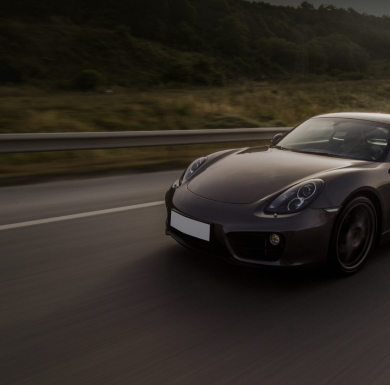
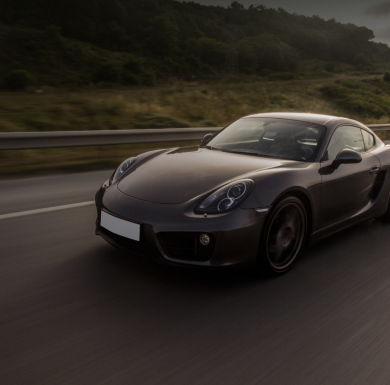
Завершён блок с advantages

diff --git a/source/index.html b/source/index.html
@@ -96,11 +96,11 @@
       <section class="promotion">
         <h2 class="promotion__title title-2">Акционные предложения</h2>
         <ul class="promotion__list">
-          <li class="promotion__item card">
+          <li class="promotion__item promotion__item--liquid">
             <h3 class="card__title">Бесплатная проверка жидкостей</h3>
             <p class="card__text">тормозная жидкость,<br> масло в двигателе,<br> масло в КПП,<br> антифриз.</p>
           </li>
-          <li class="promotion__item card">
+          <li class="promotion__item promotion__item--flex">
             <h3 class="card__title">Ремонт ДВС с гарантией один год</h3>
             <picture>
               <source type="image/webp" media="(min-width: 768px)" srcset="img/engine-desktop.webp 1x, img/engine-desktop@2x.webp 2x">
@@ -110,11 +110,11 @@
             </picture>
             <p class="card__text">без ограничения пробега</p>
           </li>
-          <li class="promotion__item card">
+          <li class="promotion__item promotion__item--free-light">
             <h3 class="card__title">Бесплатная полировка фар</h3>
             <p class="card__text">при окрасе от 3 деталей</p>
           </li>
-          <li class="promotion__item card">
+          <li class="promotion__item promotion__item--flex">
             <h3 class="card__title">Онлайн оценка кузовного ремонта</h3>
               <img class="card__img" src="./img/online.svg" width="" height="" alt="">
               <div class="card__social">

diff --git a/source/sass/blocks/promotion.scss b/source/sass/blocks/promotion.scss
@@ -1,0 +1,93 @@
+.promotion {
+  padding: 0 30px;
+}
+
+.promotion__title {
+  margin-bottom: 25px;
+  width: 166px;
+}
+
+.promotion__list {
+  padding: 0;
+  margin: 0 auto;
+  list-style: none;
+  max-width: 619px;
+}
+
+.promotion__item {
+  width: 100%;
+  box-sizing: border-box;
+  padding: 16px 14px;
+  margin: 0 0 21px 0;
+  min-height: 145px;
+  border-radius: 12px;
+  background: radial-gradient(121.27% 623.18% at 11.51% 65.34%, #34586C 0%, rgba(71, 94, 106, 0.71676) 31.19%, #808080 100%);
+
+  &:last-child {
+    margin: 0;
+  }
+}
+
+.promotion__item--liquid {
+  background: url('../img/liquid.jpg') no-repeat 0 0;
+  background-size: cover;
+
+  @media (min-resolution: 2dppx) {
+    background: url('../img/liquid@2x.jpg') no-repeat 0 0;
+    background-size: cover;
+  }
+}
+
+.promotion__item--free-light {
+  background: url('../img/free-light.jpg') no-repeat 0 0;
+  background-size: cover;
+
+  @media (min-resolution: 2dppx) {
+    background: url('../img/free-light@2x.jpg') no-repeat 0 0;
+    background-size: cover;
+  }
+}
+
+.promotion__item--flex {
+  display: flex;
+}
+
+.card {
+}
+
+.card__title {
+  margin: 0;
+  font-weight: 700;
+  font-size: 21px;
+  line-height: 25px;
+  text-transform: uppercase;
+  color: #E2E2E2;
+}
+
+.card__text {
+  margin: 0;
+  font-family: 'Mulish';
+  font-style: normal;
+  font-weight: 500;
+  font-size: 13px;
+  line-height: 16px;
+  color: #D16527;
+}
+
+.card__img {
+}
+
+.card__social {
+}
+
+.card__social-link {
+}
+
+.card__social-icon {
+}
+
+.card__social-icon--wa {
+}
+
+.card__social-icon--tg {
+}

diff --git a/source/sass/blocks/promo.scss b/source/sass/blocks/promo.scss
@@ -1,12 +1,11 @@
 .promo {
-  padding: 115px 30px 0px;
+  padding: 115px 30px 40px;
   margin-bottom: 60px;
-  min-height: 295px;
-  background: url('../img/promo-img.jpg') no-repeat 50% 50%;
+  background: url('../img/promo-img.jpg') no-repeat 0 0;
   background-size: cover;
 
   @media (min-resolution: 2dppx) {
-    background: url('../img/promo-img@2x.jpg') no-repeat 50% 50%;
+    background: url('../img/promo-img@2x.jpg') no-repeat 0 0;
     background-size: cover;
   }
 }

diff --git a/source/sass/style.scss b/source/sass/style.scss
@@ -17,6 +17,7 @@
 @import "./blocks/promo.scss";
 @import "./blocks/title-2.scss";
 @import "./blocks/advantages.scss";
+@import "./blocks/promotion.scss";
 
 @import "./blocks/page-footer.scss";
 
